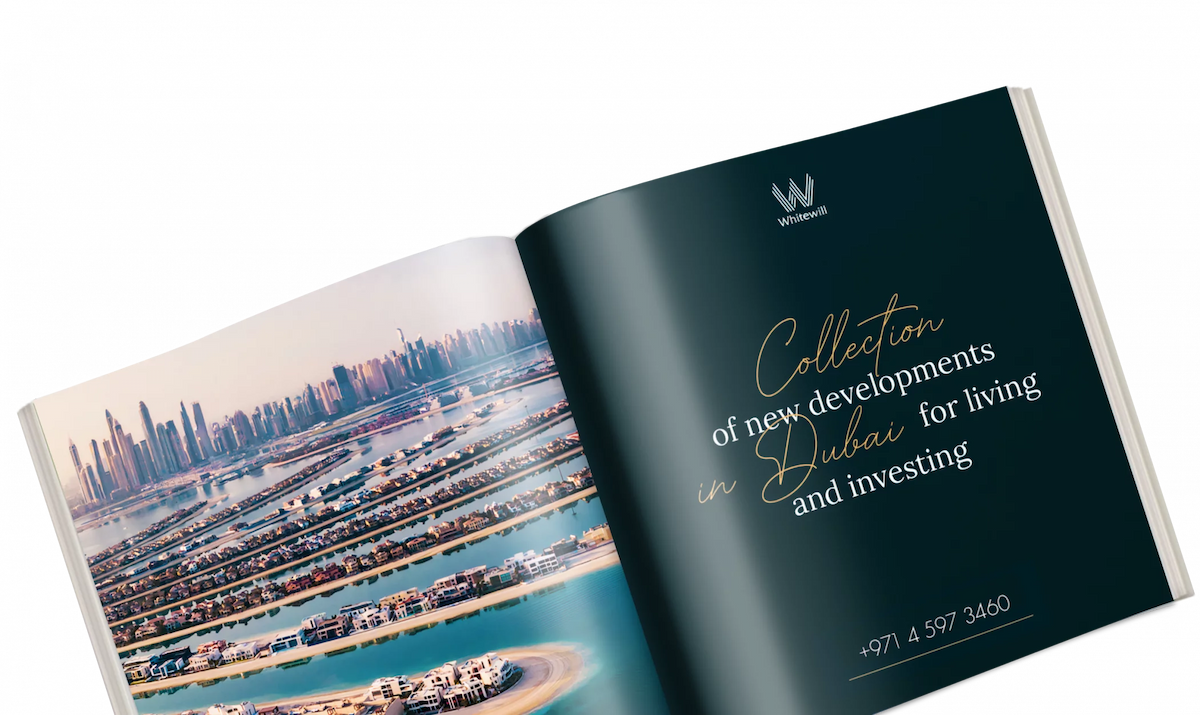
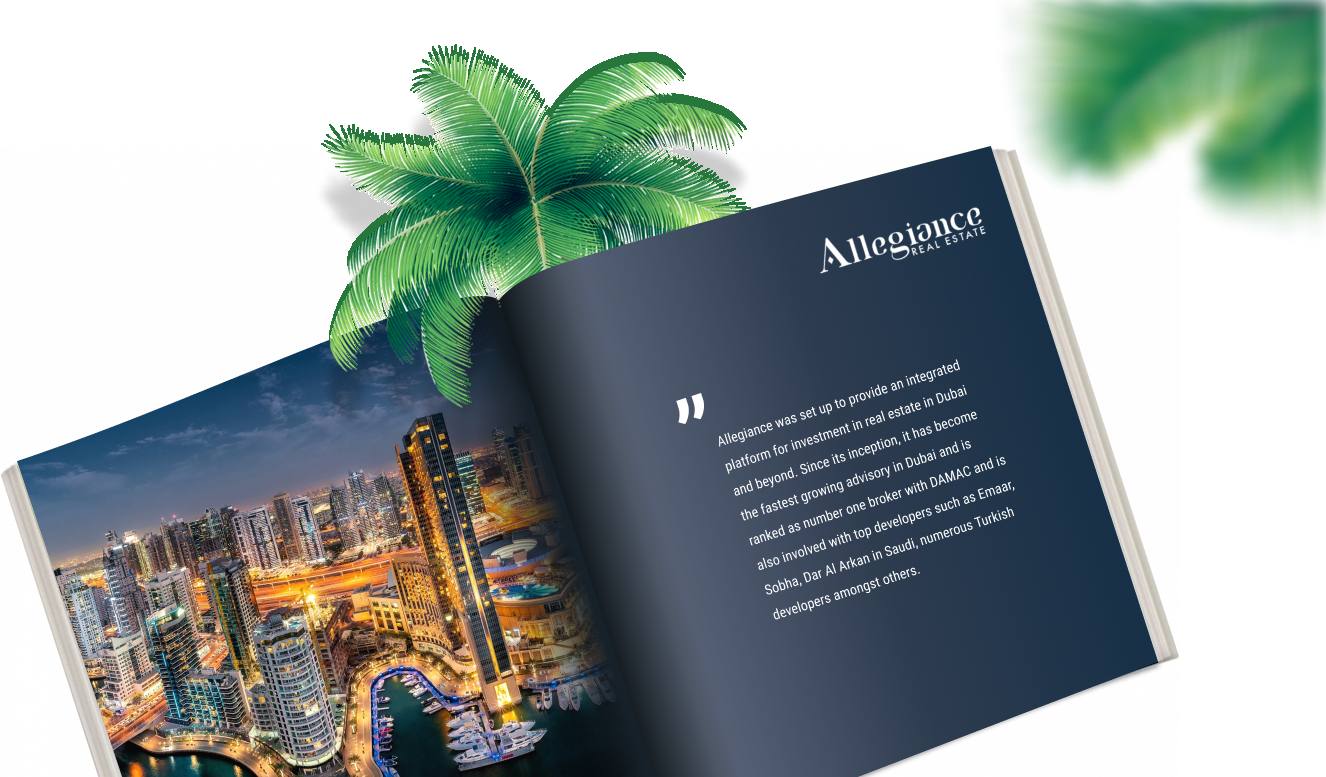
fix book block

diff --git a/dist/assets/css/main.css b/dist/assets/css/main.css
@@ -12416,29 +12416,29 @@ h2 span,
 .book {
   position: relative;
   padding: 50px 80px;
-  background-color: #000;
+  background-color: #5F6774;
+  background-image: url("../img/book-bg-2.png");
+  background-repeat: no-repeat;
+  background-size: cover;
   color: #fff;
 }
 .book::after {
   content: "";
   position: absolute;
-  bottom: 50px;
-  right: 5px;
+  bottom: 0;
+  right: 0;
   background-image: url("../img/book-bg.png");
   background-repeat: no-repeat;
   width: 1200px;
-  height: 715px;
-}
-.book__container {
-  background-color: #c09d75;
+  height: 100%;
 }
 .book__title {
   margin-bottom: 30px;
-  font-weight: 700;
-  font-size: 48px;
-  line-height: 1.1;
+  font-weight: 600;
+  font-size: 40px;
+  line-height: 48px;
   text-align: left;
-  width: 700px;
+  width: 480px;
   max-width: 100%;
 }
 .book__subtitle {
@@ -12481,9 +12481,9 @@ h2 span,
 
 .exhibition {
   padding: 50px 0;
-  background-image: url("../img/exhib-bg.jpg");
   background-repeat: no-repeat;
   background-size: cover;
+  background-color: #f6f8fb;
 }
 .exhibition__title {
   display: block;
@@ -12496,10 +12496,10 @@ h2 span,
   width: 100%;
   text-align: center;
   text-transform: uppercase;
-  color: #fff;
+  color: #000;
 }
 .exhibition__title span {
-  color: #ffcc00;
+  color: #425479;
   font-weight: 500;
 }
 .exhibition__subtitle {
@@ -12509,14 +12509,11 @@ h2 span,
   margin: 0 auto 50px;
   width: 100%;
   text-align: center;
-  color: #ffcc00;
-}
-.exhibition__subtitle span {
-  color: #fff;
+  color: #000;
 }
 .exhibition__btn {
-  background-color: #ffcc00;
-  color: #091026;
+  background-color: #B5965A;
+  color: #fff;
   height: 60px;
   width: 280px;
   display: -webkit-box;
@@ -12536,11 +12533,11 @@ h2 span,
   transition: background-color 0.3s linear;
 }
 .exhibition__btn:hover {
-  background-color: #fff;
+  background-color: #425479;
 }
 
 .exhibition-heading {
-  border: 2px solid #ffcc00;
+  border: 2px solid #B5965A;
   border-radius: 30px;
   display: block;
   font-size: 0;
@@ -12564,13 +12561,13 @@ h2 span,
   text-transform: uppercase;
 }
 .exhibition-heading__col_left {
-  color: #01112d;
+  color: #fff;
   padding-left: 40px;
   width: 41%;
   z-index: 1;
 }
 .exhibition-heading__col_left::before {
-  background-color: #ffcc00;
+  background-color: #B5965A;
   color: #01112d;
   content: "";
   position: absolute;
@@ -12584,7 +12581,7 @@ h2 span,
 }
 .exhibition-heading__col_right {
   width: 59%;
-  color: #fff;
+  color: #000;
 }
 
 .exhibition-date {
@@ -12608,7 +12605,7 @@ h2 span,
   text-align: left;
 }
 .exhibition-date__numbers {
-  color: #ffcc00;
+  color: #425479;
   display: inline-block;
   font-size: 72px;
   font-weight: bold;
@@ -12624,7 +12621,7 @@ h2 span,
   padding-left: 9px;
   text-align: left;
   text-transform: uppercase;
-  color: #fff;
+  color: #000;
 }
 
 .exhibition-address {
@@ -12632,10 +12629,10 @@ h2 span,
   padding-left: 24px;
   position: relative;
   text-align: left;
-  color: #ffcc00;
+  color: #425479;
 }
 .exhibition-address::before {
-  border-left: 2px solid #ffcc00;
+  border-left: 2px solid #425479;
   content: "";
   position: absolute;
   left: 0;
@@ -12646,13 +12643,11 @@ h2 span,
   transform: rotate(18deg);
 }
 .exhibition-address span {
-  color: #fff;
+  color: #000;
 }
 
 .exhibition-list {
   position: relative;
-  background: -webkit-gradient(linear, right top, left top, from(rgba(1, 20, 54, 0)), color-stop(#011436), to(rgba(1, 20, 54, 0)));
-  background: linear-gradient(to left, rgba(1, 20, 54, 0), #011436, rgba(1, 20, 54, 0));
   display: -webkit-box;
   display: -ms-flexbox;
   display: flex;
@@ -12660,11 +12655,11 @@ h2 span,
       -ms-flex-pack: justify;
           justify-content: space-between;
   padding: 40px 0;
-  color: #fff;
+  color: #000;
 }
 .exhibition-list::before {
-  background: -webkit-gradient(linear, left top, right top, from(rgba(255, 204, 0, 0)), color-stop(50%, #ffcc00), to(rgba(255, 204, 0, 0)));
-  background: linear-gradient(to right, rgba(255, 204, 0, 0) 0%, #ffcc00 50%, rgba(255, 204, 0, 0) 100%);
+  background: -webkit-gradient(linear, left top, right top, from(rgba(255, 204, 0, 0)), color-stop(50%, #425479), to(rgba(255, 204, 0, 0)));
+  background: linear-gradient(to right, rgba(255, 204, 0, 0) 0%, #425479 50%, rgba(255, 204, 0, 0) 100%);
   content: "";
   position: absolute;
   top: 0;
@@ -12685,7 +12680,7 @@ h2 span,
   text-transform: uppercase;
 }
 .exhibition-list__date span {
-  color: #ffcc00;
+  color: #425479;
 }
 .exhibition-list__place {
   text-decoration: underline;

diff --git a/src/assets/scss/pages/_home.scss b/src/assets/scss/pages/_home.scss
@@ -183,28 +183,32 @@
 .book {
   position: relative;
   padding: 50px 80px;
-  background-color: #000;
+  background-color: #5F6774;
+  background-image: url('../img/book-bg-2.png');
+  background-repeat: no-repeat;
+  -webkit-background-size: cover;
+  background-size: cover;
   color: #fff;
   &::after {
     content: '';
     position: absolute;
-    bottom: 50px;
-    right: 5px;
+    bottom: 0;
+    right: 0;
     background-image: url('../img/book-bg.png');
     background-repeat: no-repeat;
     width: 1200px;
-    height: 715px;
+    height: 100%;
   }
-  &__container {
-    background-color: #c09d75;
-  }
+  //&__container {
+  //  background-color: #c09d75;
+  //}
   &__title {
     margin-bottom: 30px;
-    font-weight: 700;
-    font-size: 48px;
-    line-height: 1.1;
+    font-weight: 600;
+    font-size: 40px;
+    line-height: 48px;
     text-align: left;
-    width: 700px;
+    width: 480px;
     max-width: 100%;
   }
   &__subtitle {
@@ -234,9 +238,10 @@
 
 .exhibition {
   padding: 50px 0;
-  background-image: url('../img/exhib-bg.jpg');
+  //background-image: url('../img/exhib-bg.jpg');
   background-repeat: no-repeat;
   background-size: cover;
+  background-color: #f6f8fb;
   &__title {
     display: block;
     font-size: 65px;
@@ -248,9 +253,9 @@
     width: 100%;
     text-align: center;
     text-transform: uppercase;
-    color: #fff;
+    color: #000;
     span {
-      color: #ffcc00;
+      color: #425479;
       font-weight: 500;
     }
   }
@@ -261,14 +266,12 @@
     margin: 0 auto 50px;
     width: 100%;
     text-align: center;
-    color: #ffcc00;
-    span {
-      color: #fff;
-    }
+    color: #000;
+
   }
   &__btn {
-    background-color: #ffcc00;
-    color: #091026;
+    background-color: #B5965A;
+    color: #fff;
     height: 60px;
     width: 280px;
     display: flex;
@@ -282,13 +285,13 @@
     font-weight: bold;
     transition: background-color 0.3s linear;
     &:hover {
-      background-color: #fff;
+      background-color: #425479;
     }
   }
 }
 
 .exhibition-heading {
-  border: 2px solid #ffcc00;
+  border: 2px solid #B5965A;
   -webkit-border-radius: 30px;
   -moz-border-radius: 30px;
   -ms-border-radius: 30px;
@@ -313,12 +316,12 @@
     vertical-align: top;
     text-transform: uppercase;
     &_left {
-      color: #01112d;
+      color: #fff;
       padding-left: 40px;
       width: 41%;
       z-index: 1;
       &::before {
-        background-color: #ffcc00;
+        background-color: #B5965A;
         color: #01112d;
         content: "";
         position: absolute;
@@ -336,7 +339,7 @@
     }
     &_right {
       width: 59%;
-      color: #fff;
+      color: #000;
     }
   }
 }
@@ -355,7 +358,7 @@
     text-align: left;
   }
   &__numbers {
-    color: #ffcc00;
+    color: #425479;
     display: inline-block;
     font-size: 72px;
     font-weight: bold;
@@ -371,7 +374,7 @@
     padding-left: 9px;
     text-align: left;
     text-transform: uppercase;
-    color: #fff;
+    color: #000;
   }
 }
 .exhibition-address {
@@ -379,9 +382,9 @@
   padding-left: 24px;
   position: relative;
   text-align: left;
-  color: #ffcc00;;
+  color: #425479;;
   &::before {
-    border-left: 2px solid #ffcc00;
+    border-left: 2px solid #425479;
     content: "";
     position: absolute;
     left: 0;
@@ -395,19 +398,19 @@
     transform: rotate(18deg);
   }
   span {
-    color: #fff;
+    color: #000;
   }
 }
 
 .exhibition-list {
   position: relative;
-  background: linear-gradient(to left, rgba(1, 20, 54, 0), #011436, rgba(1, 20, 54, 0));
+  //background: linear-gradient(to left, rgba(1, 20, 54, 0), #011436, rgba(1, 20, 54, 0));
   display: flex;
   justify-content: space-between;
   padding: 40px 0;
-  color: #fff;
+  color: #000;
   &::before {
-    background: linear-gradient(to right, rgba(255, 204, 0, 0) 0%, #ffcc00 50%, rgba(255, 204, 0, 0) 100%);
+    background: linear-gradient(to right, rgba(255, 204, 0, 0) 0%, #425479 50%, rgba(255, 204, 0, 0) 100%);
     content: "";
     position: absolute;
     top: 0;
@@ -425,7 +428,7 @@
     padding-top: 8px;
     text-transform: uppercase;
     span {
-      color: #ffcc00;
+      color: #425479;
     }
   }
   &__place {
